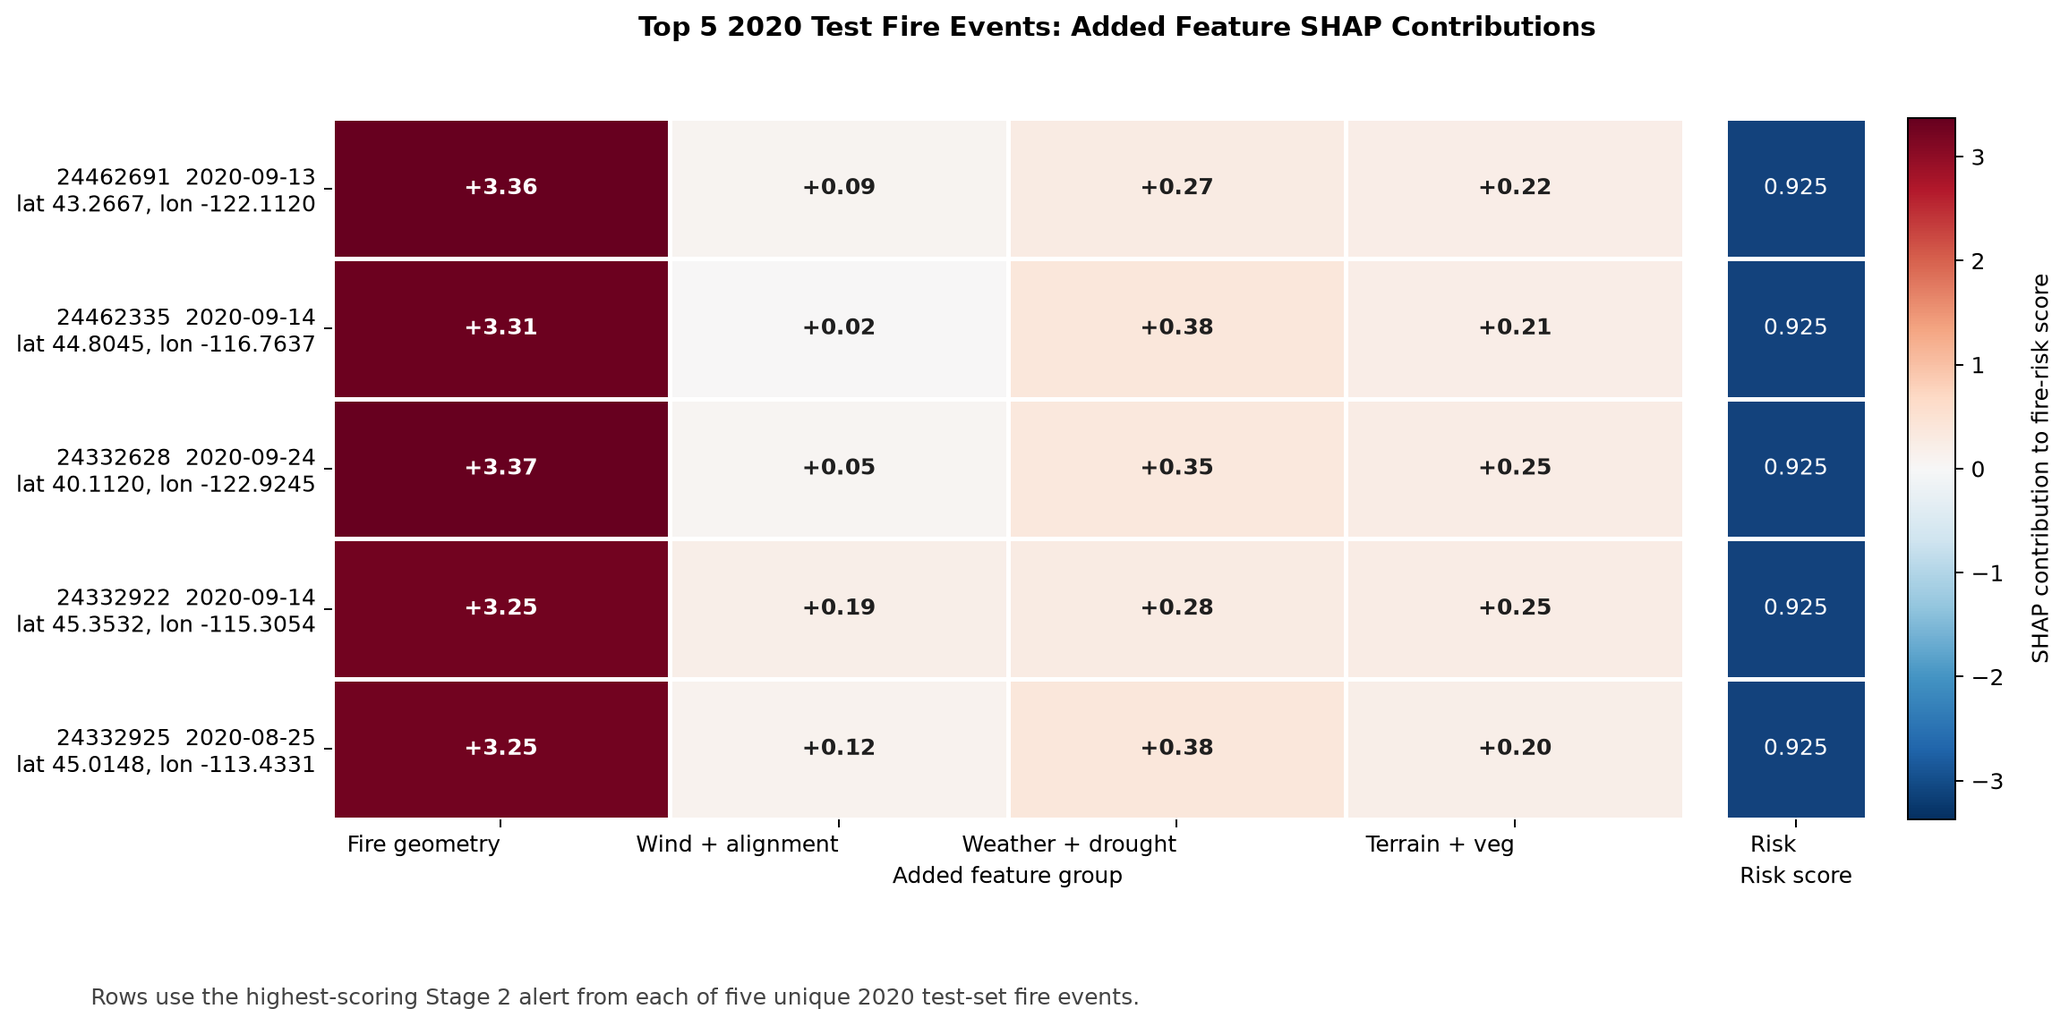
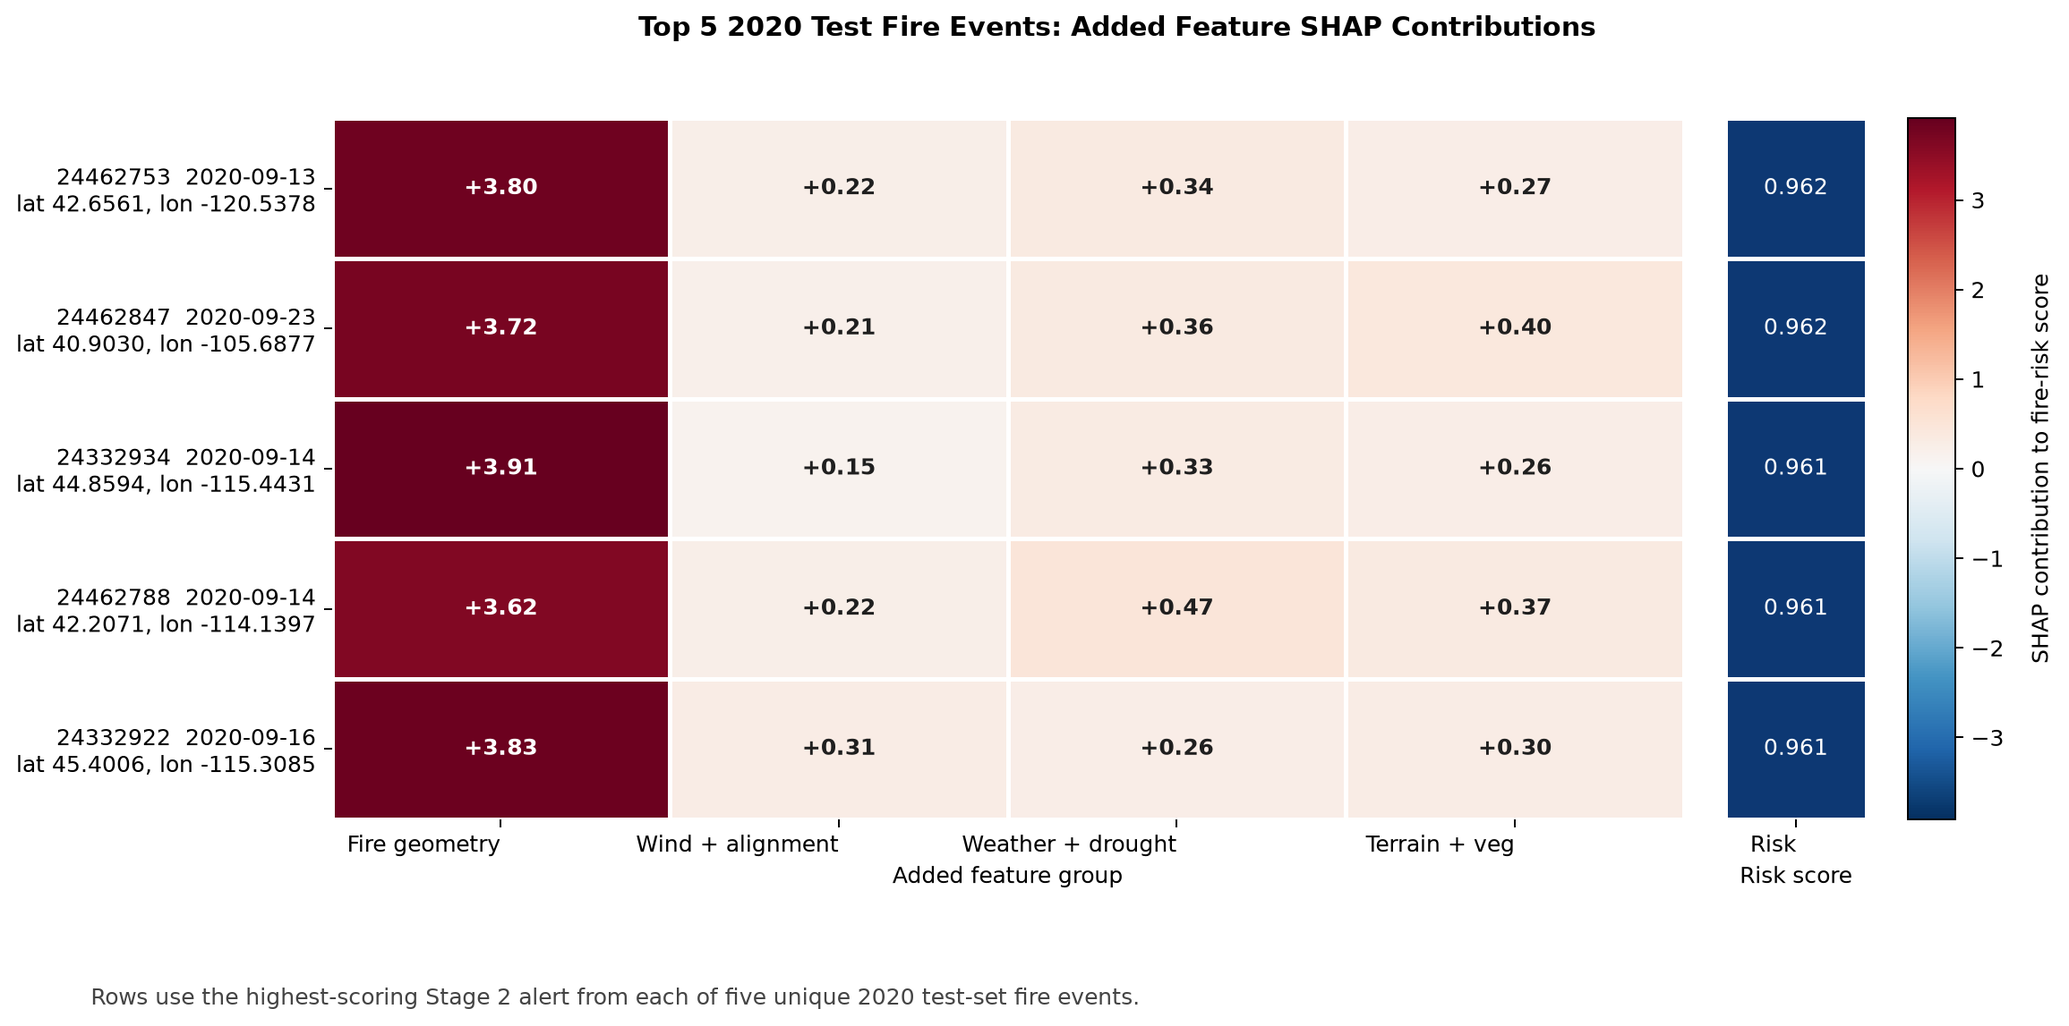
Rerun follow-up ablations on regenerated checkpoints

diff --git a/scripts/37_run_2020_ablation_experiments.py b/scripts/37_run_2020_ablation_experiments.py
@@ -8,6 +8,7 @@ from pathlib import Path
 
 import joblib
 import lightgbm as lgb
+import matplotlib.pyplot as plt
 import numpy as np
 import pandas as pd
 from sklearn.metrics import average_precision_score, roc_auc_score
@@ -71,6 +72,7 @@ FEATURE_GROUPS = {
         "landcover_class",
     ],
 }
+MODEL_SOURCE = "regenerated_imagenet_noamp_full2020"
 
 
 def main() -> None:
@@ -81,15 +83,15 @@ def main() -> None:
         nargs="+",
         default=[
             Path(
-                "outputs/stage2/candidates_3fold_r4km_fair_tanisha_ckpt/"
+                "outputs/stage2/candidates_3fold_r4km_fair_imagenet_noamp/"
                 "stage2_fold0_validation_candidates.csv"
             ),
             Path(
-                "outputs/stage2/candidates_3fold_r4km_fair_tanisha_ckpt/"
+                "outputs/stage2/candidates_3fold_r4km_fair_imagenet_noamp/"
                 "stage2_fold1_validation_candidates.csv"
             ),
             Path(
-                "outputs/stage2/candidates_3fold_r4km_fair_tanisha_ckpt/"
+                "outputs/stage2/candidates_3fold_r4km_fair_imagenet_noamp/"
                 "stage2_fold2_validation_candidates.csv"
             ),
         ],
@@ -100,16 +102,16 @@ def main() -> None:
         nargs="+",
         default=[
             Path(
-                "outputs/stage2/models_3fold_r4km_tanisha_ckpt/"
-                "stage2_gbm_3fold_r4km_tanisha_ckpt_holdout0.joblib"
+                "outputs/stage2/models_3fold_r4km_imagenet_noamp/"
+                "stage2_gbm_3fold_r4km_imagenet_noamp_holdout0.joblib"
             ),
             Path(
-                "outputs/stage2/models_3fold_r4km_tanisha_ckpt/"
-                "stage2_gbm_3fold_r4km_tanisha_ckpt_holdout1.joblib"
+                "outputs/stage2/models_3fold_r4km_imagenet_noamp/"
+                "stage2_gbm_3fold_r4km_imagenet_noamp_holdout1.joblib"
             ),
             Path(
-                "outputs/stage2/models_3fold_r4km_tanisha_ckpt/"
-                "stage2_gbm_3fold_r4km_tanisha_ckpt_holdout2.joblib"
+                "outputs/stage2/models_3fold_r4km_imagenet_noamp/"
+                "stage2_gbm_3fold_r4km_imagenet_noamp_holdout2.joblib"
             ),
         ],
     )
@@ -117,7 +119,7 @@ def main() -> None:
         "--test-csv",
         type=Path,
         default=Path(
-            "outputs/stage2/candidates_2020_r4km_fair_tanisha_ckpt_full2020/"
+            "outputs/stage2/candidates_2020_r4km_fair_imagenet_noamp_full2020/"
             "stage2_2020_candidates.csv"
         ),
     )
@@ -126,9 +128,18 @@ def main() -> None:
         type=Path,
         default=Path("outputs/tanisha_followup_experiments/2020_ablation"),
     )
+    parser.add_argument(
+        "--figure-output",
+        type=Path,
+        default=Path(
+            "outputs/tanisha_followup_experiments/figures/"
+            "03_feature_group_ablation_impact.png"
+        ),
+    )
     parser.add_argument("--seed", type=int, default=42)
     args = parser.parse_args()
 
+    reject_tanisha_checkpoint_paths([*args.fold_csvs, *args.full_models, args.test_csv])
     args.output_dir.mkdir(parents=True, exist_ok=True)
     fold_frames = [pd.read_csv(path) for path in args.fold_csvs]
     full_feature_columns = feature_column_names(fold_frames[0])
@@ -170,6 +181,19 @@ def main() -> None:
         json.dumps(table.to_dict(orient="records"), indent=2) + "\n",
         encoding="utf-8",
     )
+    metadata = {
+        "model_source": MODEL_SOURCE,
+        "fold_csvs": [str(path) for path in args.fold_csvs],
+        "full_models": [str(path) for path in args.full_models],
+        "test_csv": str(args.test_csv),
+        "figure_output": str(args.figure_output),
+        "seed": args.seed,
+    }
+    (args.output_dir / "2020_ablation_metadata.json").write_text(
+        json.dumps(metadata, indent=2) + "\n",
+        encoding="utf-8",
+    )
+    render_ablation_figure(table, args.figure_output)
     print(table.to_string(index=False))
 
 
@@ -295,6 +319,70 @@ def percentage_drop(full_value: float, variant_values: pd.Series) -> pd.Series:
     if full_value == 0:
         return pd.Series(np.zeros(len(variant_values)), index=variant_values.index)
     return (full_value - variant_values) / full_value * 100.0
+
+
+def render_ablation_figure(table: pd.DataFrame, output_path: Path) -> Path:
+    """Render 2020 regenerated-checkpoint ablation drops for the paper figure."""
+
+    plot = table[table["variant"] != "full_features"].copy()
+    plot = plot.sort_values("ap_drop_percent_vs_full", ascending=True)
+    labels = [format_variant_name(value) for value in plot["variant"]]
+    y_positions = np.arange(len(plot))
+
+    fig, axes = plt.subplots(1, 2, figsize=(12.0, 5.2), sharey=True)
+    specs = [
+        ("ap_drop_percent_vs_full", "AP drop vs full (%)", "#2f6f9f"),
+        ("within_event_auc_drop_percent_vs_full", "Within-event AUC drop vs full (%)", "#b85c38"),
+    ]
+    for axis, (column, title, color) in zip(axes, specs, strict=True):
+        values = plot[column].to_numpy(dtype=float)
+        axis.barh(y_positions, values, color=color, alpha=0.88)
+        axis.axvline(0.0, color="#333333", linewidth=1.0)
+        axis.set_title(title, weight="bold")
+        axis.set_xlabel("Percent drop")
+        axis.grid(axis="x", color="#dddddd", linewidth=0.8)
+        for index, value in enumerate(values):
+            x_offset = 0.8 if value >= 0 else -0.8
+            ha = "left" if value >= 0 else "right"
+            axis.text(value + x_offset, index, f"{value:.1f}", va="center", ha=ha, fontsize=9)
+
+    axes[0].set_yticks(y_positions, labels)
+    axes[0].set_ylabel("Ablation variant")
+    fig.suptitle(
+        "2020 Regenerated-Checkpoint Feature Ablation Impact",
+        weight="bold",
+        y=0.98,
+    )
+    fig.text(
+        0.01,
+        0.02,
+        "Positive values mean performance dropped after removing that feature group.",
+        fontsize=10,
+        color="#444444",
+    )
+    output_path.parent.mkdir(parents=True, exist_ok=True)
+    fig.tight_layout(rect=(0, 0.04, 1, 0.94))
+    fig.savefig(output_path, dpi=180, bbox_inches="tight")
+    plt.close(fig)
+    return output_path
+
+
+def format_variant_name(value: str) -> str:
+    """Make compact figure labels from ablation variant names."""
+
+    return value.removeprefix("drop_").replace("_features", "").replace("_", " ")
+
+
+def reject_tanisha_checkpoint_paths(paths: list[Path]) -> None:
+    """Prevent active follow-up runs from using Tanisha-checkpoint artifacts."""
+
+    blocked = [str(path) for path in paths if "tanisha_ckpt" in str(path)]
+    if blocked:
+        joined = "\n  ".join(blocked)
+        raise ValueError(
+            "Active follow-up experiments must use regenerated-checkpoint artifacts, "
+            f"not Tanisha-checkpoint paths:\n  {joined}"
+        )
 
 
 if __name__ == "__main__":

diff --git a/scripts/36_render_tanisha_followup_heatmap.py b/scripts/36_render_tanisha_followup_heatmap.py
@@ -57,6 +57,7 @@ FEATURE_GROUPS = {
         "landcover_class",
     ],
 }
+MODEL_SOURCE = "stage2_gbm_3fold_r4km_imagenet_noamp_ensemble"
 
 
 def main() -> None:
@@ -65,7 +66,7 @@ def main() -> None:
         "--scored-candidate-csv",
         type=Path,
         default=Path(
-            "outputs/stage2/scored_2020_r4km_fair_tanisha_ckpt_full2020/"
+            "outputs/stage2/scored_2020_r4km_fair_imagenet_noamp_full2020_retrained_stage2/"
             "stage2_2020_scored_candidates.csv"
         ),
     )
@@ -75,16 +76,16 @@ def main() -> None:
         nargs="+",
         default=[
             Path(
-                "outputs/stage2/models_3fold_r4km_tanisha_ckpt/"
-                "stage2_gbm_3fold_r4km_tanisha_ckpt_holdout0.joblib"
+                "outputs/stage2/models_3fold_r4km_imagenet_noamp/"
+                "stage2_gbm_3fold_r4km_imagenet_noamp_holdout0.joblib"
             ),
             Path(
-                "outputs/stage2/models_3fold_r4km_tanisha_ckpt/"
-                "stage2_gbm_3fold_r4km_tanisha_ckpt_holdout1.joblib"
+                "outputs/stage2/models_3fold_r4km_imagenet_noamp/"
+                "stage2_gbm_3fold_r4km_imagenet_noamp_holdout1.joblib"
             ),
             Path(
-                "outputs/stage2/models_3fold_r4km_tanisha_ckpt/"
-                "stage2_gbm_3fold_r4km_tanisha_ckpt_holdout2.joblib"
+                "outputs/stage2/models_3fold_r4km_imagenet_noamp/"
+                "stage2_gbm_3fold_r4km_imagenet_noamp_holdout2.joblib"
             ),
         ],
     )
@@ -107,6 +108,7 @@ def main() -> None:
     )
     args = parser.parse_args()
 
+    reject_tanisha_checkpoint_paths([args.scored_candidate_csv, *args.models])
     table = build_grouped_contribution_table(
         scored_candidate_csv=args.scored_candidate_csv,
         model_paths=args.models,
@@ -141,7 +143,7 @@ def build_grouped_contribution_table(
 
     lon, lat = rows_cols_to_lon_lat(top_rows, hdf5_root)
     output = top_rows[METADATA_COLUMNS].copy()
-    output.insert(0, "model_source", "stage2_gbm_3fold_r4km_tanisha_ckpt_ensemble")
+    output.insert(0, "model_source", MODEL_SOURCE)
     output["latitude"] = lat
     output["longitude"] = lon
     output["burned_tomorrow"] = output.pop("label").astype(int)
@@ -289,6 +291,18 @@ def render_heatmap(table: pd.DataFrame, output_path: Path) -> Path:
     fig.savefig(output_path, dpi=180, bbox_inches="tight")
     plt.close(fig)
     return output_path
+
+
+def reject_tanisha_checkpoint_paths(paths: list[Path]) -> None:
+    """Prevent active follow-up figures from using Tanisha-checkpoint artifacts."""
+
+    blocked = [str(path) for path in paths if "tanisha_ckpt" in str(path)]
+    if blocked:
+        joined = "\n  ".join(blocked)
+        raise ValueError(
+            "Active follow-up figures must use regenerated-checkpoint artifacts, "
+            f"not Tanisha-checkpoint paths:\n  {joined}"
+        )
 
 
 def annotate_cells(

diff --git a/outputs/tanisha_followup_experiments/TANISHA_FOLLOWUP_RESULTS.md b/outputs/tanisha_followup_experiments/TANISHA_FOLLOWUP_RESULTS.md
@@ -1,6 +1,6 @@
 # Tanisha Follow-up Experiment Results
 
-Generated: 2026-06-21
+Generated: 2026-06-23
 
 ## Figure Guide
 
@@ -8,16 +8,16 @@ All new follow-up figures are in `outputs/tanisha_followup_experiments/figures/`
 
 | Figure | What it shows | Why it matters |
 |---|---|---|
-| `01_top5_added_feature_shap_heatmap.png` | Highest-scoring sampled alert across five unique fire events, with grouped added-feature SHAP contributions. | Direct answer to the SHAP request: it shows how added feature groups contribute at top alert locations across five unique fire events. |
+| `01_top5_added_feature_shap_heatmap.png` | Highest-scoring regenerated-checkpoint sampled alert across five unique fire events, with grouped added-feature SHAP contributions. | Direct answer to the SHAP request: it shows how added feature groups contribute at top alert locations across five unique fire events. |
 | `02_top5_alert_locations_lat_lon_table.png` | Top Stage 2 raster row/column alert locations converted to latitude/longitude. | Direct answer to the coordinate-conversion request. |
-| `03_feature_group_ablation_impact.png` | Percent AP and within-event AUC drop after removing added feature groups. | Direct answer to the no-added-feature and ablation request. |
+| `03_feature_group_ablation_impact.png` | 2020 regenerated-checkpoint percent AP and within-event AUC drop after removing added feature groups. | Direct answer to the no-added-feature and ablation request. |
 
 Related figure tables:
 
 - Added-feature SHAP table: `outputs/tanisha_followup_experiments/figures/01_top5_added_feature_group_shap.csv`
 - Standalone top-5 coordinate table: `outputs/tanisha_followup_experiments/figures/02_top5_alert_locations_lat_lon_table.csv`
 - Top alert lat/lon table: `outputs/tanisha_followup_experiments/tables/top_alert_locations_lat_lon.csv`
-- Note: `.venv` does not currently include the `shap` package, so SHAP was not recomputed; the new view uses existing tracked SHAP outputs under `outputs/stage2/shap/`.
+- Provenance: the active follow-up figures and 2020 ablation table use the regenerated ImageNet/no-AMP checkpoint artifacts, not `*_tanisha_ckpt*` artifacts.
 
 ## Table Definitions
 
@@ -47,51 +47,32 @@ Related figure tables:
 | `Risk` | Stage 2 LightGBM risk score. |
 | `Burned?` | Whether that alert location burned on the next day. |
 
-### Ablation Result Tables
+### 2020 Ablation Result Table
 
-`Mean Ablation Results` averages the two validation directions. `Fold-Level Results` shows each direction separately.
+`outputs/tanisha_followup_experiments/2020_ablation/2020_ablation_metrics.csv` is the source table for the 2020 regenerated-checkpoint ablation.
 
 | Column | Definition |
 |---|---|
 | `variant` | Feature set used for that LightGBM run. `no_extra_features` keeps only basic Stage 1/current-fire/distance-style features; `drop_*` removes one added feature group from the full feature set. |
-| `direction` | Training/validation direction. `fold0_to_fold1` means trained on fold 0 candidates and evaluated on fold 1 candidates; `fold1_to_fold0` is the reverse. |
 | `average_precision` | Area under the precision-recall curve for candidate ranking. Higher is better. |
 | `within_event_auc` | Mean ROC AUC computed inside event-day candidate groups. Higher is better for ranking candidates within the same fire context. |
-| `ap_drop_pct_of_full` | Percent AP loss relative to the accepted full-feature model for the same fold direction. Positive means performance dropped when the feature group was removed. |
-| `within_event_auc_drop_pct_of_full` | Percent within-event AUC loss relative to the accepted full-feature model for the same fold direction. Positive means performance dropped. |
-| `passes_discriminative_check` | Whether the model met the existing discriminative check: within-event AUC at least 0.65 and better than distance-only baseline. |
+| `ap_drop_percent_vs_full` | Percent AP loss relative to the regenerated full-feature model. Positive means performance dropped when the feature group was removed. |
+| `within_event_auc_drop_percent_vs_full` | Percent within-event AUC loss relative to the regenerated full-feature model. Positive means performance dropped. |
 
-## Mean Ablation Results
+## 2020 Regenerated-Checkpoint Ablation Results
 
-| variant                          | average_precision | within_event_auc | ap_drop_pct_of_full | within_event_auc_drop_pct_of_full | passes_discriminative_check |
-| -------------------------------- | ----------------- | ---------------- | ------------------- | --------------------------------- | --------------------------- |
-| no_extra_features                | 0.1444            | 0.7509           | 65.0727             | 5.9701                            | 0.0000                      |
-| drop_weather_drought_features    | 0.3031            | 0.8133           | 27.3042             | -1.8360                           | 1.0000                      |
-| drop_fire_geometry_features      | 0.3404            | 0.7391           | 17.4597             | 7.4519                            | 0.0000                      |
-| drop_terrain_vegetation_features | 0.3776            | 0.8332           | 8.3944              | -4.3319                           | 1.0000                      |
-| drop_wind_features               | 0.4130            | 0.7987           | -0.3466             | -0.0097                           | 1.0000                      |
-| drop_stage1_threshold_features   | 0.4847            | 0.8221           | -18.2682            | -2.9404                           | 1.0000                      |
-
-## Fold-Level Results
-
-| variant                          | direction      | average_precision | within_event_auc | ap_drop_pct_of_full | within_event_auc_drop_pct_of_full | passes_discriminative_check |
-| -------------------------------- | -------------- | ----------------- | ---------------- | ------------------- | --------------------------------- | --------------------------- |
-| drop_fire_geometry_features      | fold0_to_fold1 | 0.3188            | 0.7342           | 19.0772             | 8.1383                            | False                       |
-| drop_fire_geometry_features      | fold1_to_fold0 | 0.3620            | 0.7440           | 15.8422             | 6.7655                            | False                       |
-| drop_stage1_threshold_features   | fold0_to_fold1 | 0.5232            | 0.8287           | -32.7925            | -3.6835                           | True                        |
-| drop_stage1_threshold_features   | fold1_to_fold0 | 0.4462            | 0.8155           | -3.7438             | -2.1972                           | True                        |
-| drop_terrain_vegetation_features | fold0_to_fold1 | 0.3583            | 0.8442           | 9.0721              | -5.6255                           | True                        |
-| drop_terrain_vegetation_features | fold1_to_fold0 | 0.3969            | 0.8222           | 7.7167              | -3.0383                           | True                        |
-| drop_weather_drought_features    | fold0_to_fold1 | 0.2090            | 0.8202           | 46.9561             | -2.6241                           | True                        |
-| drop_weather_drought_features    | fold1_to_fold0 | 0.3972            | 0.8063           | 7.6523              | -1.0480                           | True                        |
-| drop_wind_features               | fold0_to_fold1 | 0.4052            | 0.8130           | -2.8418             | -1.7170                           | True                        |
-| drop_wind_features               | fold1_to_fold0 | 0.4208            | 0.7844           | 2.1486              | 1.6977                            | True                        |
-| no_extra_features                | fold0_to_fold1 | 0.1266            | 0.7663           | 67.8727             | 4.1246                            | False                       |
-| no_extra_features                | fold1_to_fold0 | 0.1623            | 0.7356           | 62.2727             | 7.8157                            | False                       |
+| variant | average_precision | within_event_auc | ap_drop_percent_vs_full | within_event_auc_drop_percent_vs_full |
+|---|---:|---:|---:|---:|
+| drop_fire_geometry_features | 0.1629 | 0.6752 | 35.1393 | 21.4829 |
+| drop_weather_drought_features | 0.2491 | 0.8625 | 0.8038 | -0.2906 |
+| drop_terrain_vegetation_features | 0.2492 | 0.8605 | 0.7342 | -0.0587 |
+| full_features | 0.2511 | 0.8600 | 0.0000 | 0.0000 |
+| no_extra_features | 0.2620 | 0.8590 | -4.3518 | 0.1141 |
+| drop_wind_features | 0.2695 | 0.8571 | -7.3242 | 0.3367 |
 
 ## Interpretation
 
-- Removing added features drops mean AP by 65.1% and mean within-event AUC by 6.0% versus the accepted full-feature models.
-- Among single group removals, `drop_weather_drought_features` has the largest mean AP drop (27.3% of full-model AP).
-- For within-event ranking, `drop_fire_geometry_features` has the largest mean AUC drop (7.5% of full-model AUC).
-- Negative drops mean the ablated model scored higher than the original full-feature reference on that metric/fold; treat those as evidence of feature redundancy or split variance, not as a claim that the removed group is harmful.
+- The full-feature row matches the regenerated-checkpoint 2020 discrimination summary: AP `0.2511` and within-event AUC `0.8600`.
+- Removing fire-geometry features causes the largest drop: AP drops by `35.1%` and within-event AUC drops by `21.5%`.
+- Weather/drought and terrain/vegetation removals cause small AP drops and nearly unchanged within-event AUC.
+- The no-extra and no-wind variants score slightly higher on AP than the full model in this regenerated 2020 run; treat negative drops as split/test-set variance or feature redundancy, not as a claim that those features are harmful.

diff --git a/outputs/tanisha_followup_experiments/figures/README.md b/outputs/tanisha_followup_experiments/figures/README.md
@@ -6,7 +6,7 @@ This folder contains only the new figures for Tanisha's follow-up request. It do
 
 - File: `01_top5_added_feature_shap_heatmap.png`
 - Source table: `01_top5_added_feature_group_shap.csv`
-- Purpose: shows the highest-scoring sampled alert across five unique fire events and summarizes how added feature groups contribute to each alert score.
+- Purpose: shows the highest-scoring regenerated-checkpoint sampled alert across five unique fire events and summarizes how added feature groups contribute to each alert score.
 - Use for: Tanisha's request to use the SHAP file to explain top alert locations across five unique fire events.
 
 ## Figure 2: Raster Pixels Converted to Latitude/Longitude
@@ -19,7 +19,7 @@ This folder contains only the new figures for Tanisha's follow-up request. It do
 ## Figure 3: Added-Feature Ablation Impact
 
 - File: `03_feature_group_ablation_impact.png`
-- Purpose: shows the percent performance drop after removing added feature groups, using average precision and within-event AUC.
+- Purpose: shows the 2020 regenerated-checkpoint percent performance drop after removing added feature groups, using average precision and within-event AUC.
 - Use for: Tanisha's request to test whether LightGBM performance goes down without added features and which feature groups contribute most.
 
 The earlier scatter plot attempt was removed because it was less clear than the heatmap.
